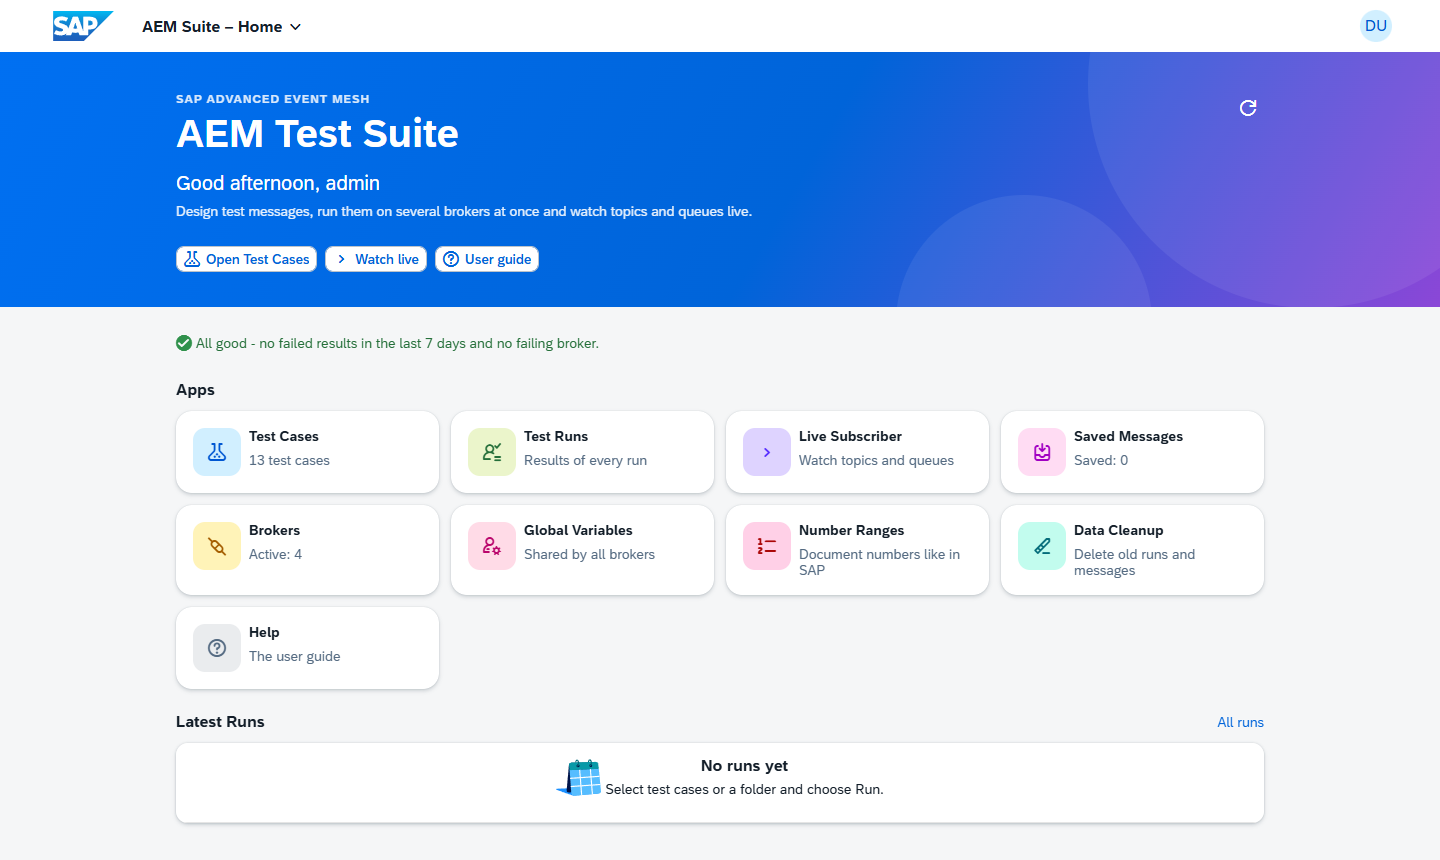
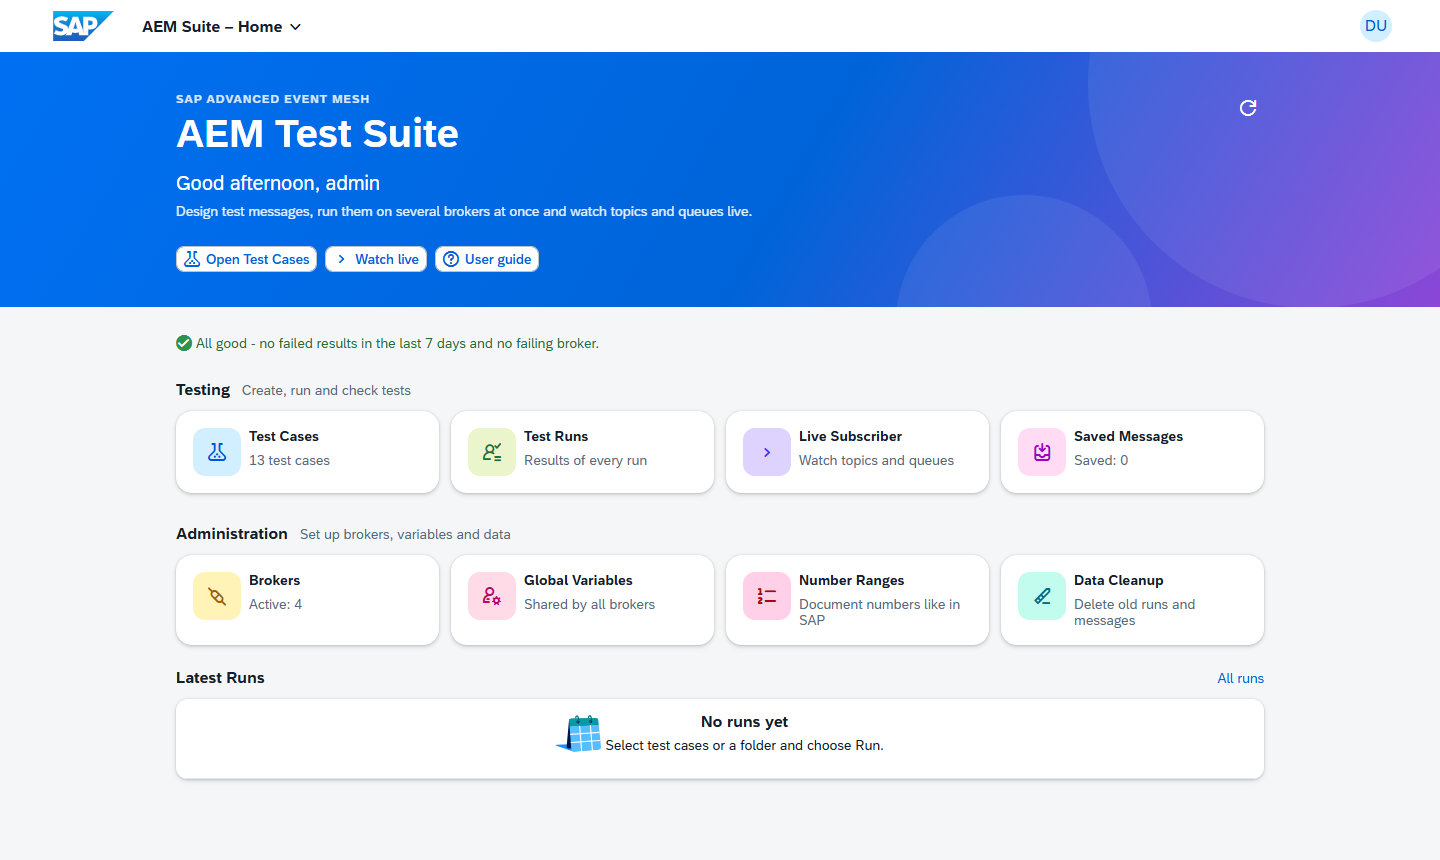
feat(home): app tiles grouped by role (Testing, Administration), no Help tile
Help stays as the button of the page and the hero.

diff --git a/e2e/home.spec.ts b/e2e/home.spec.ts
@@ -15,7 +15,15 @@ test.describe('home (admin)', () => {
     await expect(page.getByText('Needs attention').or(page.getByText(/^All good/))).toBeVisible()
     // demo data: test/data/aem.suite-TestCases.csv
     await expect(tile(page, 'Test Cases').getByText(/^\d+ test cases$/)).toBeVisible()
-    for (const name of ['Test Runs', 'Live Subscriber', 'Saved Messages', 'Brokers', 'Global Variables', 'Number Ranges', 'Help']) await expect(tile(page, name)).toBeVisible()
+    for (const name of ['Test Runs', 'Live Subscriber', 'Saved Messages', 'Brokers', 'Global Variables', 'Number Ranges', 'Data Cleanup']) await expect(tile(page, name)).toBeVisible()
+    // the tiles are grouped by role: the apps for testers first, then the ones for administrators
+    const testing = page.locator('.aemHomeGroup').filter({ has: page.getByRole('heading', { name: 'Testing' }) })
+    const admin = page.locator('.aemHomeGroup').filter({ has: page.getByRole('heading', { name: 'Administration' }) })
+    for (const name of ['Test Cases', 'Test Runs', 'Live Subscriber', 'Saved Messages']) await expect(testing.locator('.aemHomeTile').and(page.getByRole('region', { name, exact: true }))).toBeVisible()
+    for (const name of ['Brokers', 'Global Variables', 'Number Ranges', 'Data Cleanup']) await expect(admin.locator('.aemHomeTile').and(page.getByRole('region', { name, exact: true }))).toBeVisible()
+    await expect(page.locator('.aemHomeGroup')).toHaveCount(2)
+    // Help is the button of the page, not a tile
+    await expect(tile(page, 'Help')).toHaveCount(0)
     await expect(page.getByText('Latest Runs')).toBeVisible()
   })
 
@@ -59,10 +67,12 @@ test.describe('home (tester)', () => {
   test('shows only the apps the tester can open', async ({ page }) => {
     await openApp(page, apps.home)
     await expectAppOpen(page, apps.home)
-    // the apps for role Tester and for everyone (app/_shared/Apps.js), without the admin apps
-    const testerApps = ['Test Cases', 'Test Runs', 'Live Subscriber', 'Saved Messages', 'Help']
+    // the apps for role Tester (app/_shared/Apps.js), in one group, without the admin apps
+    const testerApps = ['Test Cases', 'Test Runs', 'Live Subscriber', 'Saved Messages']
     for (const name of testerApps) await expect(tile(page, name)).toBeVisible()
     await expect(page.locator('.aemHomeTile')).toHaveCount(testerApps.length)
+    await expect(page.getByRole('heading', { name: 'Testing' })).toBeVisible()
+    await expect(page.getByRole('heading', { name: 'Administration' })).toHaveCount(0)
     await expect(tile(page, 'Global Variables')).toHaveCount(0)
   })
 })

diff --git a/app/home/webapp/controller/Main.controller.js b/app/home/webapp/controller/Main.controller.js
@@ -25,6 +25,8 @@ sap.ui.define(
     ].map(function (a) {
       return Object.assign({}, Apps.get(a.key), a);
     });
+    /** The groups of tiles: the apps for testers, then the apps for administrators (Apps.js: role of an app) */
+    var GROUPS = [{ role: "tester" }, { role: "admin" }];
     var LAST_RUNS = 3;
     /** Prefs key (this browser): ids of the notices the user clicked OK on */
     var DISMISSED_KEY = "homeDismissedNotices";
@@ -148,8 +150,19 @@ sap.ui.define(
           }),
           dismissedCount: dismissed.length,
           dismissedText: dismissed.length === 1 ? this._text("attention.dismissed.one") : this._text("attention.dismissed.many", [dismissed.length]),
-          apps: APPS.filter(allowed).map(function (a) {
-            return { key: a.key, title: that._text("app." + a.key + ".title"), line: that._line(a.key, o), icon: a.icon, color: a.color };
+          groups: GROUPS.map(function (g) {
+            return {
+              key: g.role,
+              title: that._text("apps.group." + g.role),
+              description: that._text("apps.group." + g.role + ".description"),
+              apps: APPS.filter(function (a) {
+                return a.role === g.role && allowed(a);
+              }).map(function (a) {
+                return { key: a.key, title: that._text("app." + a.key + ".title"), line: that._line(a.key, o), icon: a.icon, color: a.color };
+              })
+            };
+          }).filter(function (g) {
+            return g.apps.length > 0;
           }),
           lastRuns: (o.lastRuns || []).slice(0, LAST_RUNS).map(function (r) {
             return {

diff --git a/app/home/webapp/css/style.css b/app/home/webapp/css/style.css
@@ -215,3 +215,15 @@
     gap: 0.25rem;
   }
 }
+
+/* groups of app tiles: the apps for testers, the apps for administrators */
+.aemHomeGroups {
+  display: flex;
+  flex-direction: column;
+  gap: 0.5rem;
+}
+
+.aemHomeGroupText {
+  margin-left: 0.75rem;
+  color: var(--sapContent_LabelColor);
+}

diff --git a/docs/user-guide.md b/docs/user-guide.md
@@ -55,7 +55,7 @@ Open the launchpad – the suite's own start page, or your SAP Build Work Zone s
 | **Number Ranges** | document numbers (like SAP) for your messages | Admin |
 | **Help** | this guide, inside the app | everyone |
 
-The **Home** page lists what **needs attention** (failed results, a broker whose connection test failed, ...). Click **OK** on a notice to hide it - it stays hidden in this browser until the situation changes (for example more results fail, or another broker fails). **Show again** brings hidden notices back.
+The **Home** page groups the apps by role: **Testing** (Test Cases, Test Runs, Live Subscriber, Saved Messages) and, if you are an administrator, **Administration** (Brokers, Global Variables, Number Ranges, Data Cleanup). The user guide is the **Help** button of the page. It also lists what **needs attention** (failed results, a broker whose connection test failed, ...). Click **OK** on a notice to hide it - it stays hidden in this browser until the situation changes (for example more results fail, or another broker fails). **Show again** brings hidden notices back.
 
 **Help is always at hand:** every page has a **Help** button (top right) that opens the matching part of this guide in a new tab, so you do not lose what you are doing. The **Help** tile shows the whole guide with a contents list on the left and a **search** that highlights what it finds.
 
